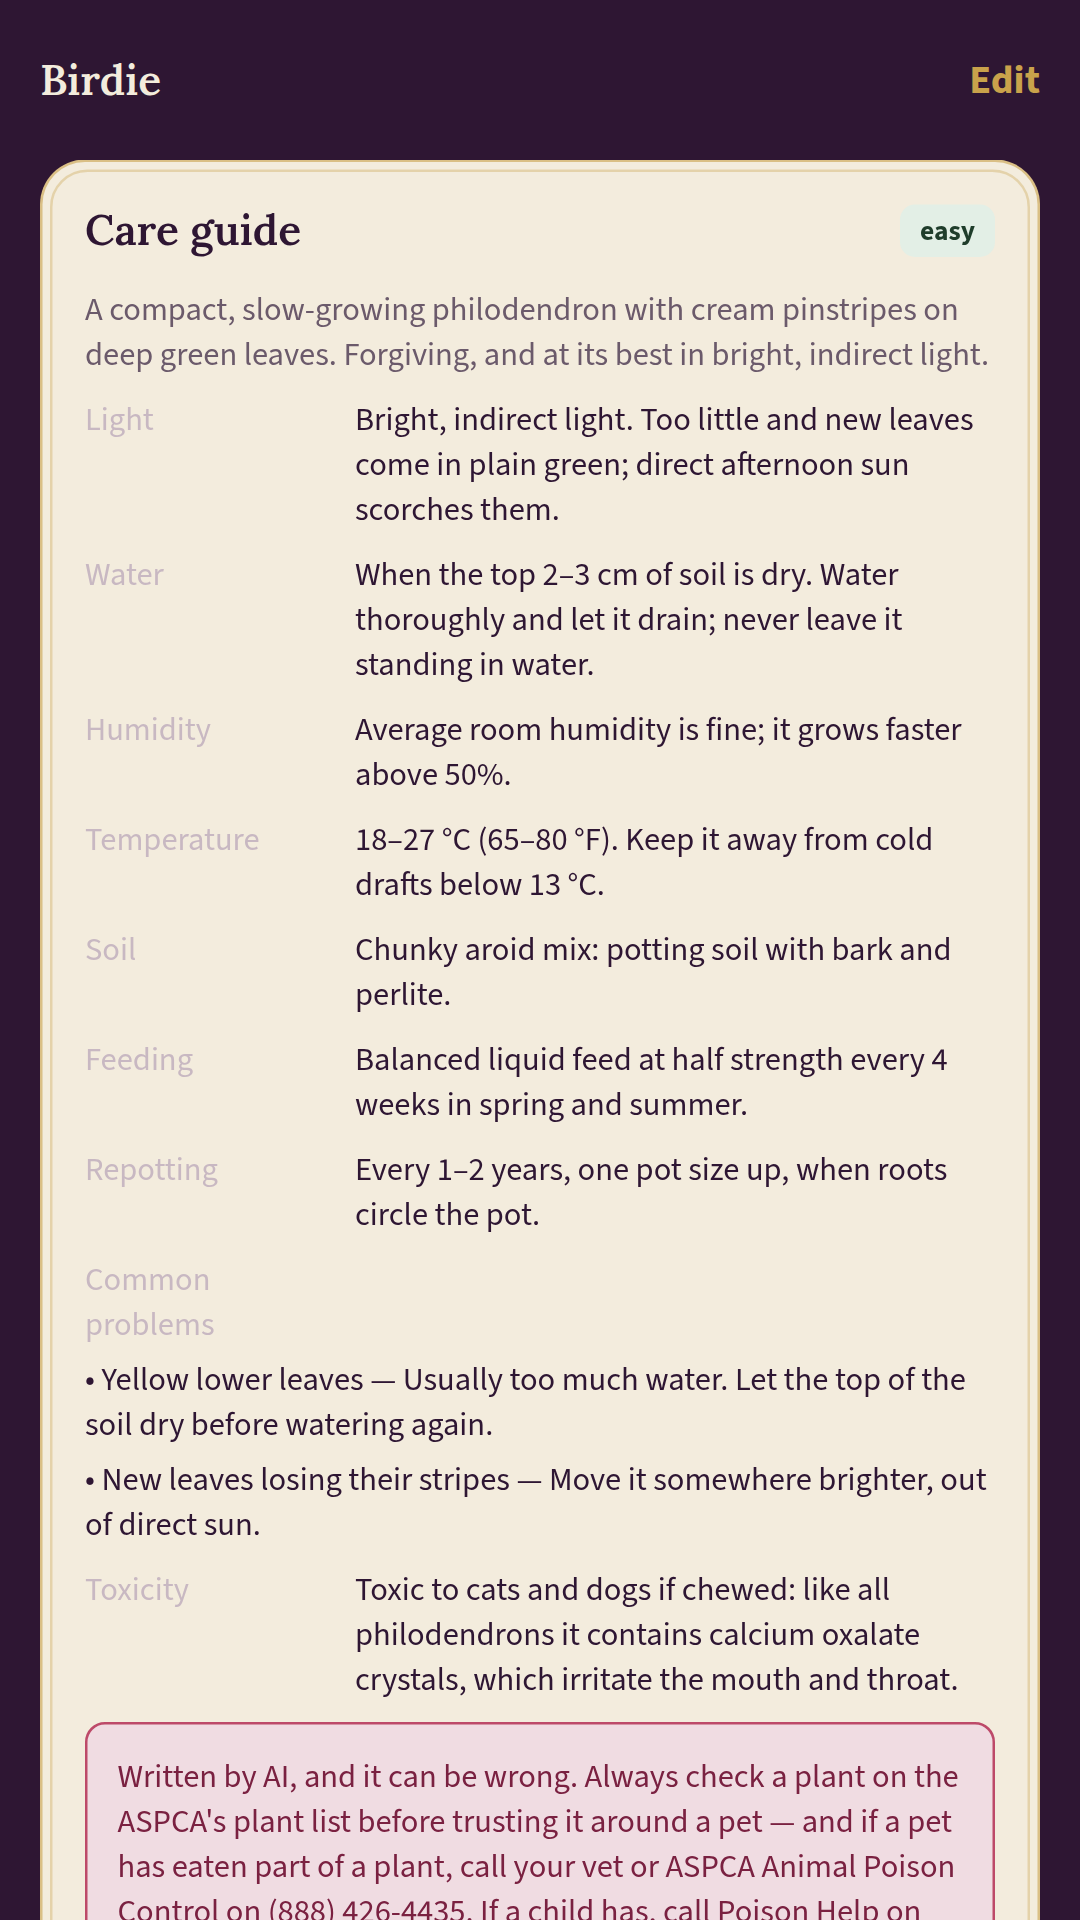
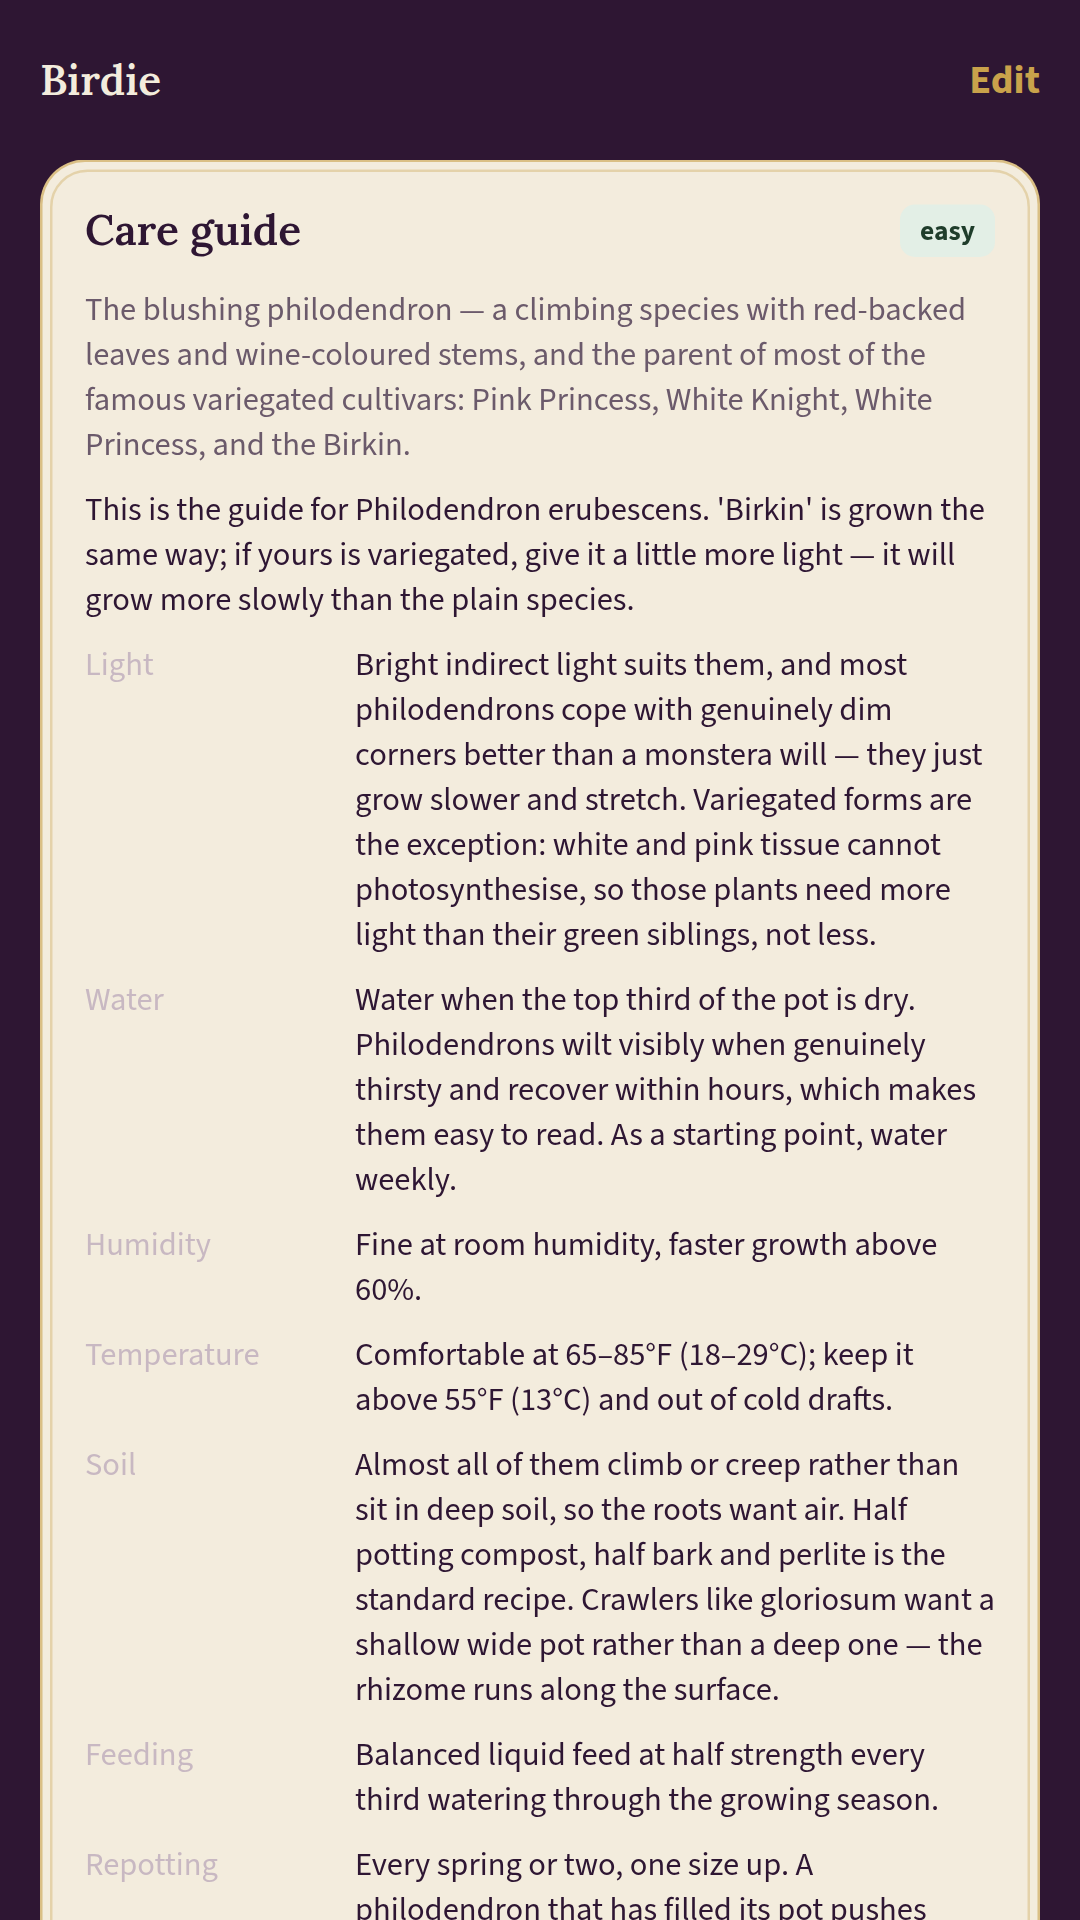
Play listing: search-tuned name and description; captioned screenshots
- docs/play-store.md matches the listing as updated on 12 Oct: 'PlantParlour:
  Plant Care & ID', 'Plant identifier, watering reminders and care guides for
  every houseplant.', a plain opening line, and 160+ guides.
- Screenshots retaken from today's build (the add-plant bar, the health
  check's comparison line, the library care guide with its cultivar note),
  plus the opening doors and the lit room.
- scripts/store-captions.mjs frames six of them on the aubergine page under a
  headline and a line of detail, in Lora and Source Sans: store/captioned/,
  in store order, ready to upload.
- store-screenshots.mjs stubs the care guide with the library's real
  Philodendron erubescens page and the cultivar note.

Claude-Session: https://claude.ai/code/session_016LAyux22BfTFcSr6hssLGj

Changed region(s): [[0.0611, 0.1562, 0.9167, 1.0], [0.0917, 0.5, 0.1833, 0.5625], [0.0917, 0.3438, 0.1833, 0.4062]]

diff --git a/docs/play-store.md b/docs/play-store.md
@@ -37,14 +37,22 @@ new fingerprint, tested on internal testing before production.
 
 ## Store listing
 
-**App name** (30 max): `PlantParlour: Plant Care`
+Updated 12 Oct 2026 for search (the first version, live from 11 Oct, was
+"PlantParlour: Plant Care" and "Plant ID, care reminders and a living care
+record for every plant you keep."). Play weighs the name, then the short
+description, then the full description: they now carry the words people
+search with -- plant care, plant identifier, watering reminders, houseplant.
+
+**App name** (30 max): `PlantParlour: Plant Care & ID`
 
 **Short description** (80 max):
-`Plant ID, care reminders and a living care record for every plant you keep.`
+`Plant identifier, watering reminders and care guides for every houseplant.`
 
 **Full description** (4000 max):
 
 ```
+PlantParlour is a plant care app: identify plants from a photo, get watering reminders, and keep a care journal for every houseplant.
+
 Every plant you love deserves a history. PlantParlour keeps it, and tells you what each one needs today.
 
 Snap a photo and PlantParlour names your plant, down to the cultivar where it can, including variegated and collector varieties. See how it's doing, get a care guide written for that species, and let reminders tell you when it's time to water, feed or repot.
@@ -78,7 +86,7 @@ AI can be wrong, so every answer can be reported right where it's shown. Toxicit
 YOUR PLANTS, YOUR DATA
 No ads. Your records aren't sold or shared. Delete your account and everything in it from inside the app, any time.
 
-More free care guides for over 150 houseplants at plantparlour.org.
+More free care guides for 160+ houseplants at plantparlour.org.
 ```
 
 **Category:** House & Home. **Tags:** Plant care, Gardening, Home & garden.
@@ -93,7 +101,8 @@ More free care guides for over 150 houseplants at plantparlour.org.
 |---|---|---|
 | App icon | `public/icon-512.png` | 512×512 |
 | Feature graphic | `store/feature-graphic.png` | 1024×500 |
-| Phone screenshots | `store/screenshots/1-…6-*.png`, from the web build by `scripts/store-screenshots.mjs` (stubbed, no AI spend); retake from the Android build later if wanted | 1080×1920 |
+| Phone screenshots (upload these) | `store/captioned/1-…6-*.png`: captioned, in store order, by `scripts/store-captions.mjs` | 1080×1920 |
+| Raw screenshots | `store/screenshots/*.png`, from the web build by `scripts/store-screenshots.mjs` (stubbed, no AI spend); `7-doors` and `8-come-in` are the opening sequence (`?threshold`) | 1080×1920 |
 
 Both images come from `npm run icons`.
 
